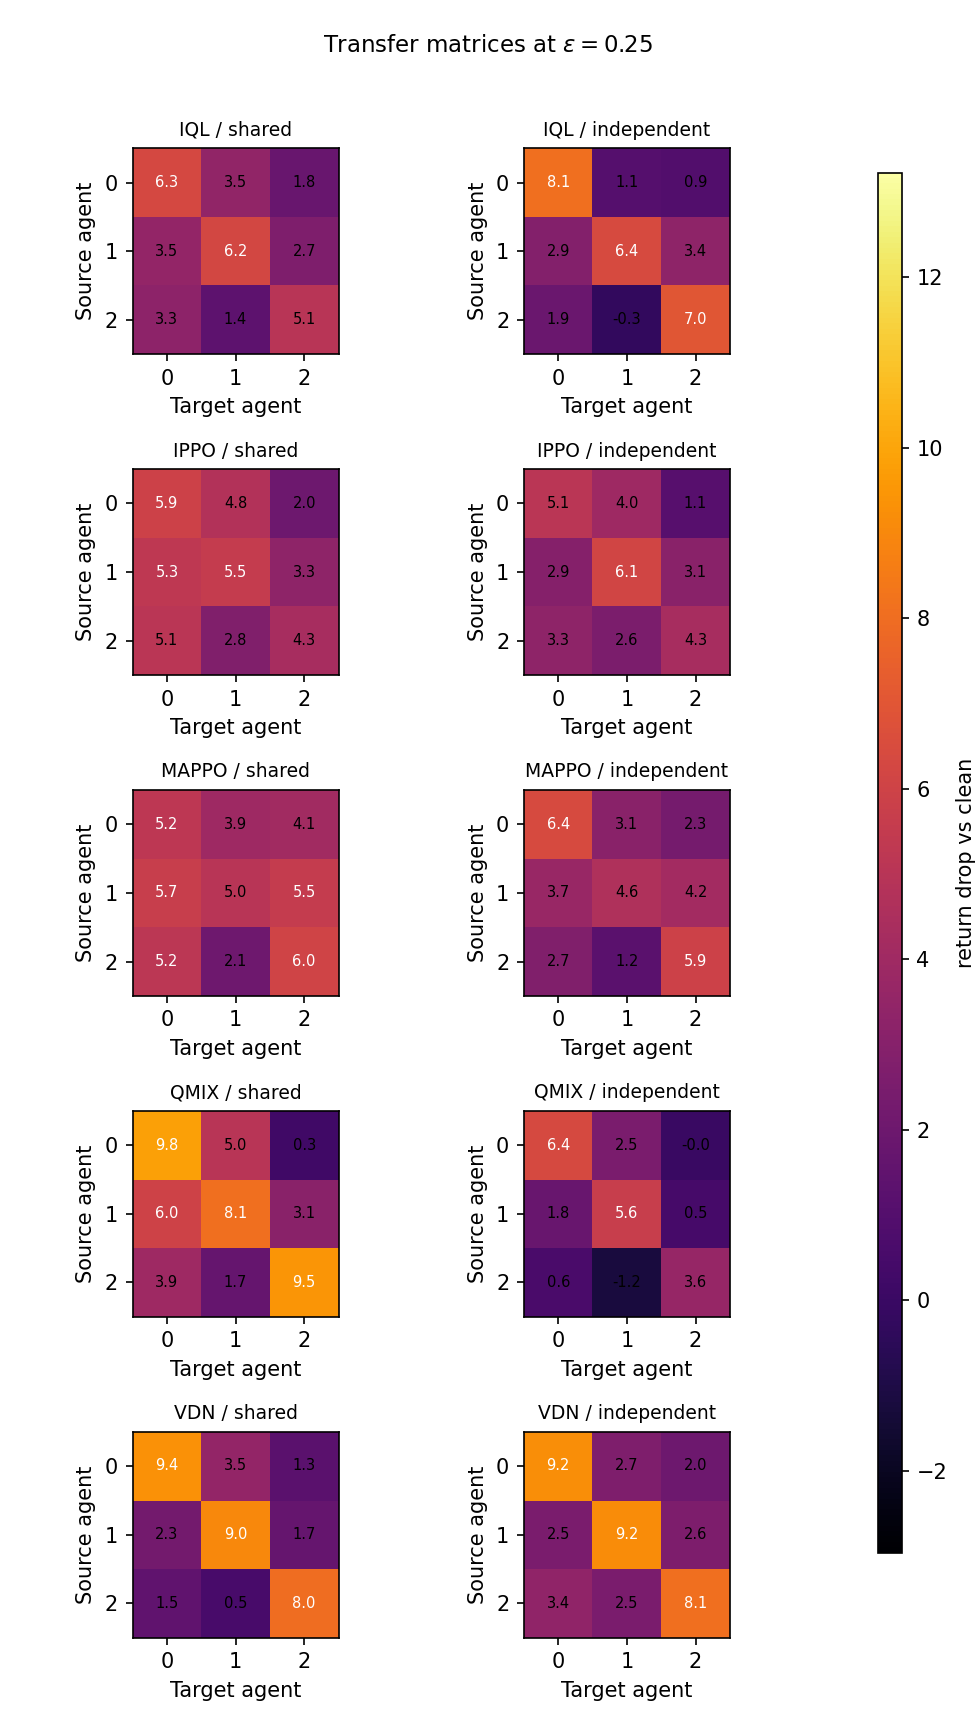
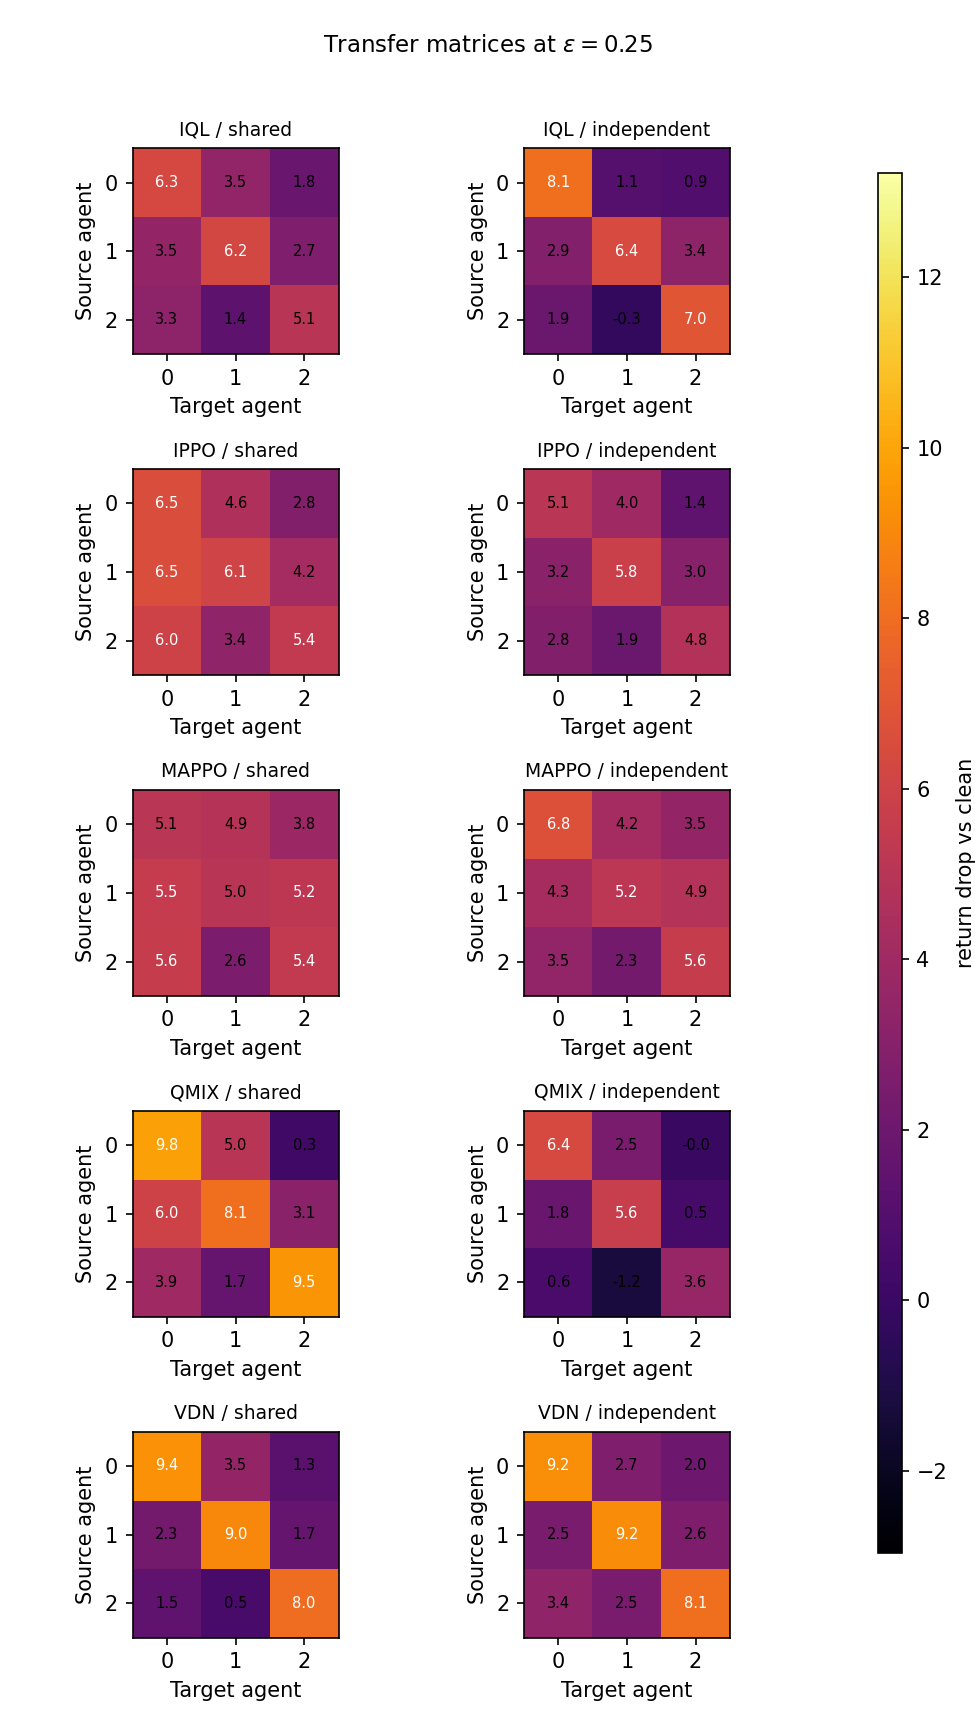
rerun transfer evals, update ippo/mappo numbers

Changed region(s): [[0.5846, 0.4609, 0.7692, 0.5838], [0.2769, 0.338, 0.3692, 0.3994], [0.1231, 0.3072, 0.2154, 0.3687]]

diff --git a/report/report.tex b/report/report.tex
@@ -286,14 +286,14 @@ Table~\ref{tab:transfer} reports the diagonal mean (self-attack), off-diagonal m
 % TODO: Interpret your results.
 % Idea bullets:
 \begin{itemize}
-  \item main verdict: 4/5 transfer ratios go down when going shared -> indep. iql $0.46 \to 0.23$, ippo $0.74 \to 0.55$, mappo $0.81 \to 0.51$, qmix $0.37 \to 0.13$. vdn is the weird one ($0.20 \to 0.30$, gap ~0.10, prob seed noise)
+  \item main verdict: 4/5 transfer ratios go down when going shared -> indep. iql $0.46 \to 0.23$, ippo $0.77 \to 0.52$, mappo $0.89 \to 0.65$, qmix $0.37 \to 0.13$. vdn is the weird one ($0.20 \to 0.30$, gap ~0.10, prob seed noise)
   \item qmix = cleanest result. 3x transfer ratio drop, fgsm drop also 1.5x bigger under sharing (28.9 vs 19.7), sdor agrees direction (-5.6 indep-shared)
   \item mixer thing: qmix and vdn have huge fgsm drops regardless of sharing (19-29 units) bc the mixer concentrates gradient. what sharing actually changes is the OFF-diag drop (qmix $3.33 \to 0.70$). mixer makes vdec methods globally attackable, indep just localises where the damage lands
-  \item ippo/mappo: highest baseline transfer ratios under sharing (0.74, 0.81), drop to 0.51-0.55 under indep. but per-cell fgsm drops basically the same (~10 units). so the effect shows up in transfer ratio, not aggregate drop
+  \item ippo/mappo: highest baseline transfer ratios under sharing (0.77, 0.89), drop to 0.52-0.65 under indep. but per-cell fgsm drops basically the same (~10 units). so the effect shows up in transfer ratio, not aggregate drop
   \item clean-vs-robust tradeoff: qmix pays a real cost (-47.2 -> -53.7, 14\% relative drop). ippo/mappo no tradeoff at all - indep just better on clean AND attacked. so cost of indep is task/algo specific, not universal
   \item iql + vdn exceptions: iql fgsm-delta is +2.4 (indep slightly worse on raw drop) but transfer ratio still supports ($0.46 \to 0.23$), prob a return-scale artefact. vdn 0.10 transfer ratio inversion is the only real counter, but at $n=3$ seeds it's plausibly noise
   \item cross-env: smaclite qmix $0.65 \to 0.61$ same direction smaller gap. either undertrained (1M of paper's 4M) or the gap is genuinely smaller on a diff env family
-  \item 2m mappo control rules out undertraining as cause - same numbers within seed noise (app~\ref{app:convergence-control})
+  \item 2m mappo control mostly rules out undertraining as cause - clean / random / fgsm match within seed noise. transfer ratio drifts a bit (0.89 -> 0.95) but small enough at $n=3$ to plausibly be noise (app~\ref{app:convergence-control})
   \item limitations: 3 seeds, one mpe config (3 homog agents), single-step grad attack, eval-time only (no adv training), no maddpg / continuous, one smaclite map
 \end{itemize}
 

diff --git a/figures/transfer_table.tex b/figures/transfer_table.tex
@@ -5,11 +5,11 @@ Algorithm & Params & Clean & Diag.\ drop & Off-diag.\ drop & Transfer ratio \\
 IQL & shared & $-44.57$ & $5.87$ & $2.69$ & $0.46$ \\
 IQL & independent & $-45.92$ & $7.18$ & $1.64$ & $0.23$ \\
 \midrule
-IPPO & shared & $-51.68$ & $5.26$ & $3.88$ & $0.74$ \\
-IPPO & independent & $-50.17$ & $5.18$ & $2.84$ & $0.55$ \\
+IPPO & shared & $-51.31$ & $6.00$ & $4.60$ & $0.77$ \\
+IPPO & independent & $-50.22$ & $5.24$ & $2.72$ & $0.52$ \\
 \midrule
-MAPPO & shared & $-51.28$ & $5.44$ & $4.41$ & $0.81$ \\
-MAPPO & independent & $-49.92$ & $5.66$ & $2.89$ & $0.51$ \\
+MAPPO & shared & $-51.36$ & $5.20$ & $4.62$ & $0.89$ \\
+MAPPO & independent & $-49.33$ & $5.84$ & $3.78$ & $0.65$ \\
 \midrule
 QMIX & shared & $-46.07$ & $9.13$ & $3.33$ & $0.37$ \\
 QMIX & independent & $-54.11$ & $5.22$ & $0.70$ & $0.13$ \\

diff --git a/figures/mappo_2m_table.tex b/figures/mappo_2m_table.tex
@@ -6,7 +6,7 @@
     Random noise                 & $-53.6 \pm 0.8$ & $-52.4$ \\
     FGSM                         & $-62.8 \pm 2.5$ & $-61.6$ \\
     SDOR-stor                    & $-62.1 \pm 0.8$ & $-58.3$ \\
-    Cross-agent transfer ratio   & $0.81$          & $0.78$  \\
+    Cross-agent transfer ratio   & $0.89$          & $0.95$  \\
     \bottomrule
     \end{tabular}
     
